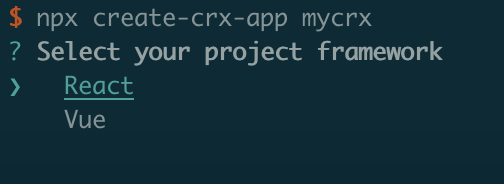
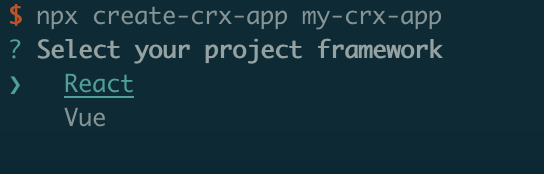
docs: add readme

diff --git a/README.md b/README.md
@@ -1,0 +1,25 @@
+<h1 align="center"><img height="150" src="./templates/react-js-mv2/assets/create-crx-app.png" /><br> </h1>
+
+<h3 align="center">CLI for create Chrome extension app</h3>
+
+English|[简体中文](https://github.com/Jcanno/create-crx-app/blob/main/README-CH.md)
+
+we recommend to type code below in terminal with npm 5.2+ and higher:
+
+```js
+npx create-crx-app my-crx-app
+cd my-crx-app
+npm run dev
+```
+
+We can easily generate a Chrome extension project by using create-crx-app step by step.
+
+Select your project framework:
+
+<img height="150" width="400" src="./example/img/framework.png" />
+
+Select your project language:
+
+<img height="150" width="400" src="./example/img/lang.png" />
+
+After that, create-crx-app will generate project by your setting.

diff --git a/README-CH.md b/README-CH.md
@@ -1,0 +1,25 @@
+<h1 align="center"><img height="150" src="./templates/react-js-mv2/assets/create-crx-app.png" /><br> </h1>
+
+<h3 align="center">CLI for create Chrome extension app</h3>
+
+[English](https://github.com/Jcanno/create-crx-app)|简体中文
+
+如果你的 npm 版本大于 5.2，推荐在终端这样使用 create-crx-app：
+
+```js
+npx create-crx-app my-crx-app
+cd my-crx-app
+npm run dev
+```
+
+通过 create-crx-app， 我们可以一步步生成谷歌插件项目
+
+选择你的项目框架:
+
+<img height="150" width="400" src="./example/img/framework.png" />
+
+选择你的项目语言:
+
+<img height="150" width="400" src="./example/img/lang.png" />
+
+create-crx-app 将会按照你的所有配置生成项目
